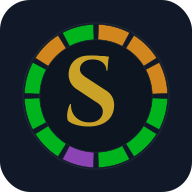
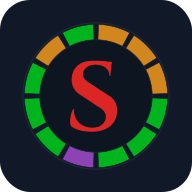
Icono: S roja y centrada
CACHE: temp-b085996

Changed region(s): [[0.3438, 0.2812, 0.625, 0.6875]]

diff --git a/docs/index.html b/docs/index.html
@@ -435,7 +435,7 @@
 </div>
 
 <script>
-const APP_VERSION = '1547ac3 · 2026-04-05';// ── Service Worker ──
+const APP_VERSION = 'b085996 · 2026-04-05';// ── Service Worker ──
 if ('serviceWorker' in navigator) {
   let reloading = false;
   navigator.serviceWorker.addEventListener('controllerchange', () => {

diff --git a/docs/sw.js b/docs/sw.js
@@ -1,4 +1,4 @@
-const CACHE = 'temp-1547ac3';const STATIC = [
+const CACHE = 'temp-b085996';const STATIC = [
   './icon-192.png',
   './icon-512.png',
   'https://cdn.jsdelivr.net/npm/chart.js@4.4.0/dist/chart.umd.min.js'
